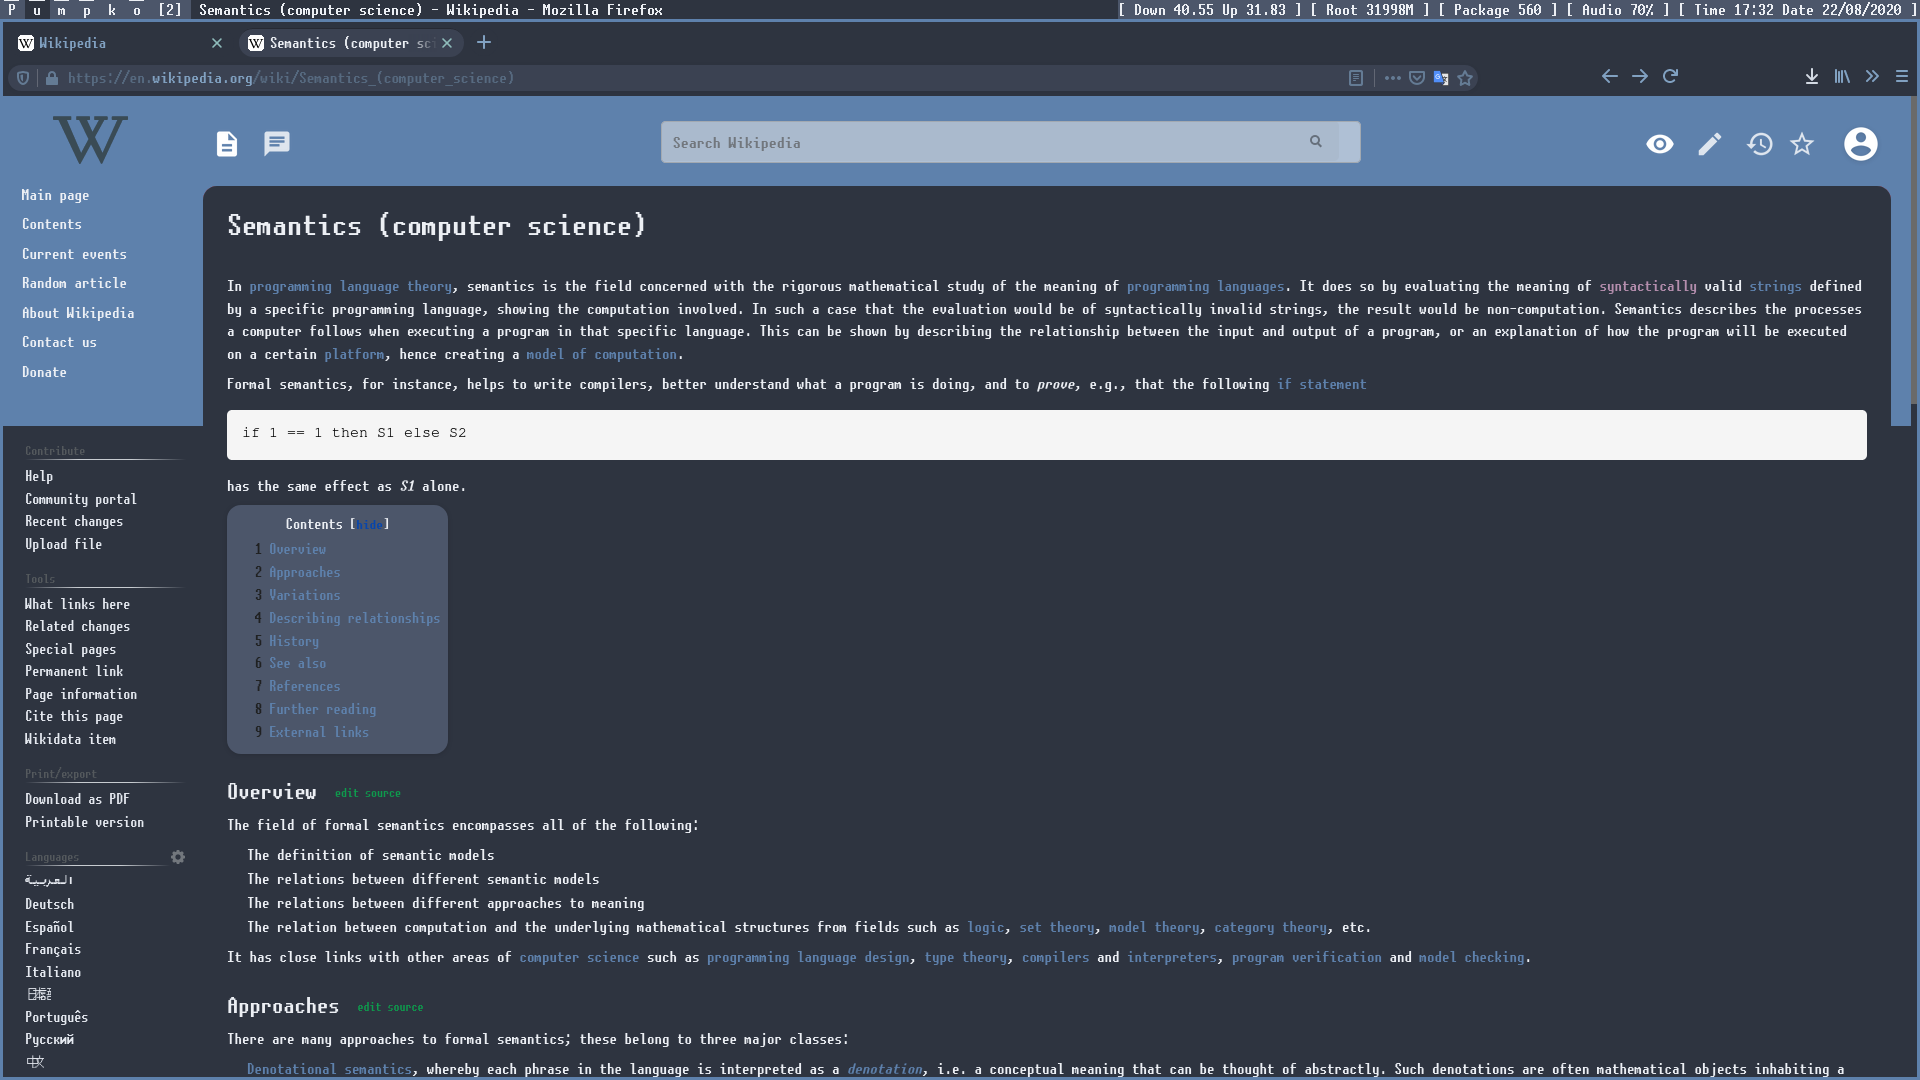
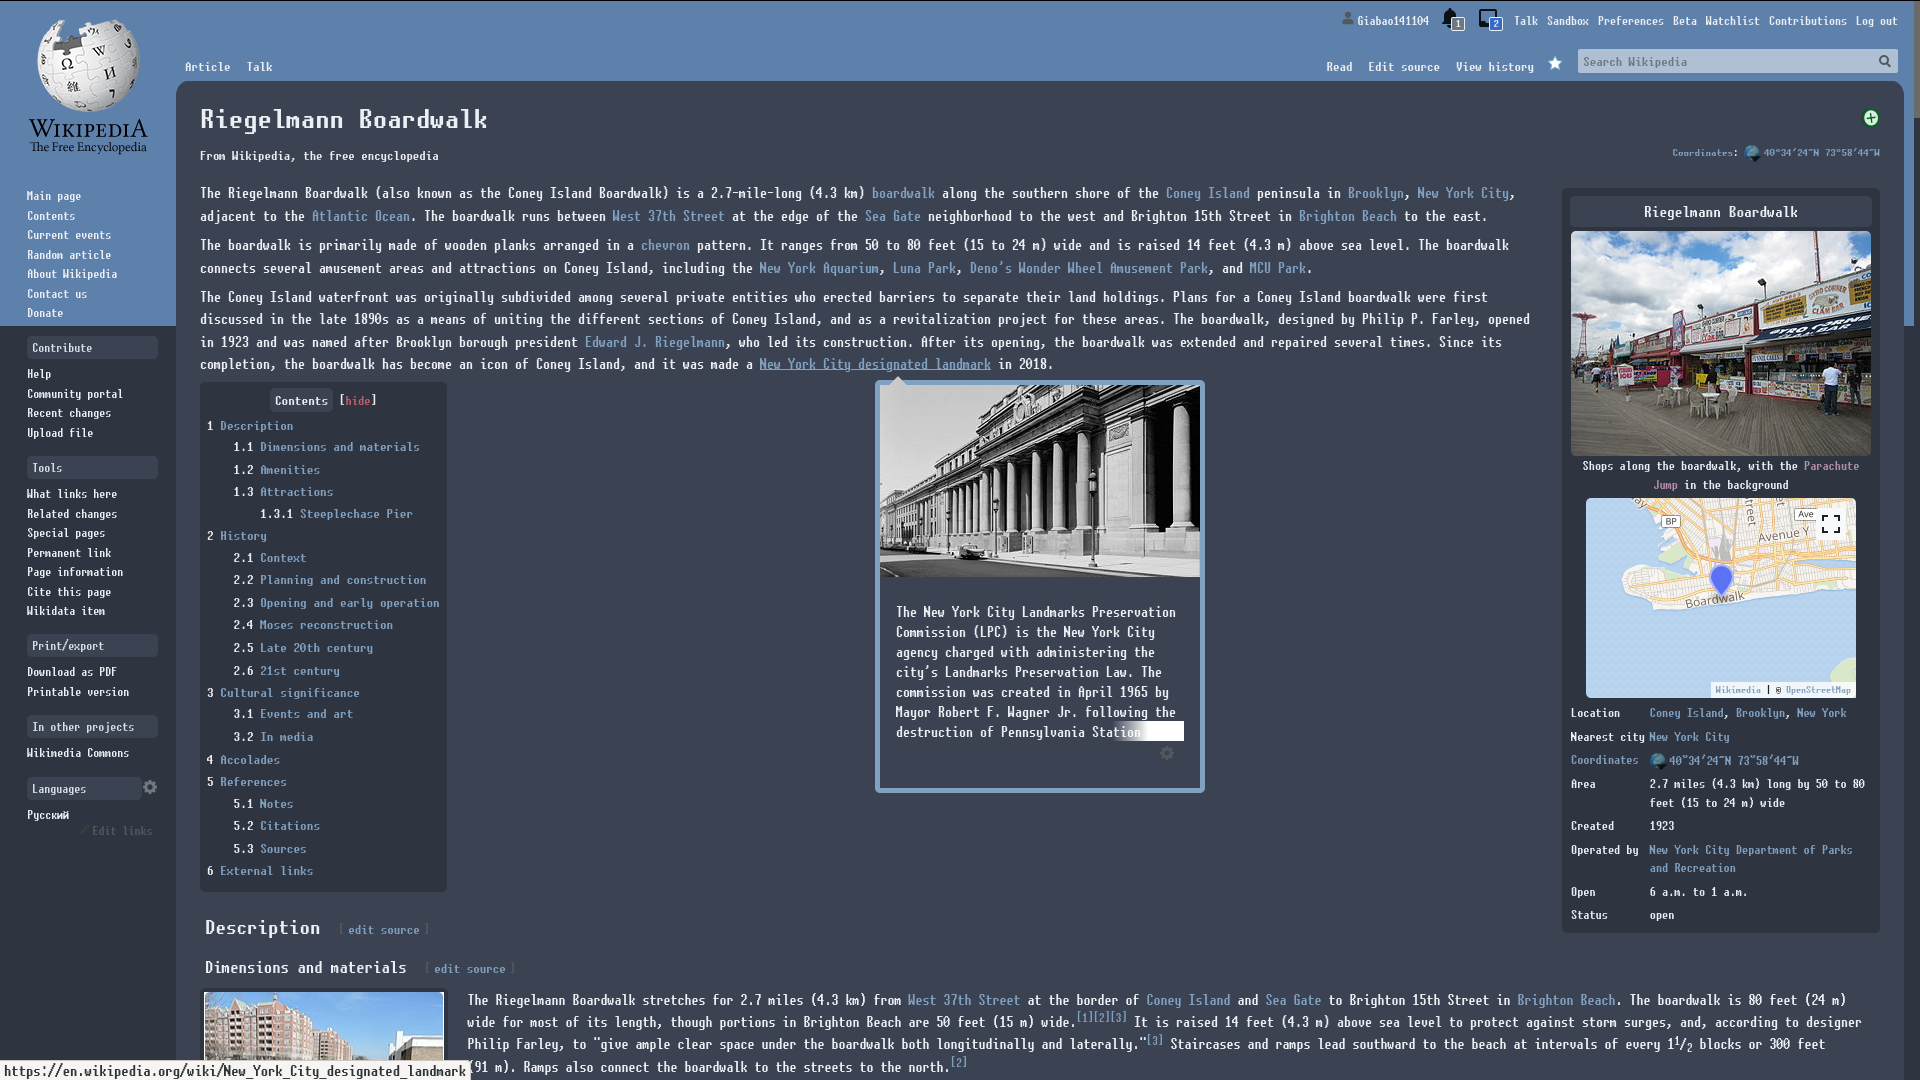
Wikipedia css update

diff --git a/firefox/stylus/wikipedia.css b/firefox/stylus/wikipedia.css
@@ -1,0 +1,139 @@
+@-moz-document domain("wikipedia.org") {
+* {
+    border: none !important;
+    box-shadow: none !important;
+}
+
+/* GENERAL */
+html {
+    background: #2e3440 !important;
+}
+body {
+    background: #2e3440 !important;
+}
+
+a {
+    color: #81a1c1 !important;
+}
+a:visited, .selected {
+    color: #b48ead !important;
+    text-decoration: none !important;
+}
+label {
+    color: #bf616a !important;
+}
+
+/* NAVBAR */
+.toc, .thumbinner {
+    border-radius: 5px !important;
+    background: #2e3440 !important;
+}
+#p-navigation {
+    background: #5e81ac !important;
+}
+#p-interaction-label, #p-tb-label, #p-coll-print_export-label, #p-wikibase-otherprojects-label, #p-lang-label {
+    color: #d8dee9 !important;
+    background: #3b4252 !important;
+    background-image: none !important;
+    padding: 5px !important;
+    border-radius: 5px !important;
+}
+
+/* MAIN */
+#mw-head {
+    color: #eceff4 !important;
+    background: #5e81ac !important;
+}
+#mw-head-base {
+    margin-left: 0;
+    background: #5e81ac;
+    box-shadow: 0 140px 0 105px #5e81ac !important;
+}
+
+.mwe-popups {
+    background: #3b4252 !important;
+    border-radius: 5px !important;
+    border: 5px solid #81a1c1 !important;
+}
+.mwe-popups-is-not-tall {
+    border-radius: 5px !important;
+}
+.mw-ui-icon {
+    background: none !important;
+    background-image: none !important;
+}
+    /*Search*/
+#searchInput {
+    color: #eceff4 !important;
+}
+.suggestions-result, .special-query {
+    color: #eceff4 !important;
+    background: #5e81ac !important;
+}
+.suggestions-special {
+    background: #5e81ac !important;
+    border-radius: 0px 0px 5px 5px;
+}
+.suggestions-result:hover {
+    background: #81a1c1 !important;
+}
+.special-query:hover {
+    padding-left: 5px;
+    border-radius: 0px 0px 5px 5px !important;
+}
+.special-label {
+    color: #2e3440 !important;
+}
+
+    /*Header*/
+.vector-menu-content-list a:visited, .vector-menu-content-list a {
+    color: #eceff4 !important;
+    text-decoration: none !important;
+}
+#p-namespaces, #p-views, .vector-menu-tabs a,
+#ca-nstab-main, #ca-talk, #ca-view, #ca-edit, #ca-history, #ca-watch {
+    background: #5e81ac !important;
+    background-image: none !important;
+}
+    /*Article*/
+.mw-body-content, p {
+    color: #eceff4 !important;
+    background: #3b4252 !important;
+}
+.mw-body {
+    color: #eceff4 !important;
+    background: #3b4252 !important;
+    border-radius: 15px !important;
+    overflow: visible !important;
+    margin-right: 10px !important;
+}
+.mw-headline, #mw-toc-heading, .fn {
+    color: #eceff4 !important;
+    background: #3b4252 !important;
+    padding: 5px;
+    border-radius: 5px;    
+}
+.firstHeading, .noprint, .hatnote, .thumbcation, .tocnumber {
+    color: #eceff4 !important;
+    background: none !important;
+    border-radius: 5px !important;
+}
+
+table {
+    background: #2e3440 !important;
+    padding: 5px !important;
+    border-radius: 5px !important;
+}
+th, td {
+    color: #eceff4 !important;
+}
+
+img {
+    border-radius: 5px !important;
+}
+pre, code, .mwe-math-fallback-image-inline {
+    background: #d1cbbf;
+    border-radius: 4px;
+    filter: invert(100%);
+}
+}

diff --git a/README.md b/README.md
@@ -44,9 +44,8 @@ It's not finished yet, I'll work on it when I have time.
 ![userChrome.css](firefox/2020-07-23_01-46-16_R.png)
 ### stylus
 #### Wikipedia
-[udscbt's stylesheets](https://github.com/udscbt-wsx/udscbt-userstyles) for wikipedia with nord theme!
+[udscbt](https://github.com/udscbt-wsx/udscbt-userstyles) inspired stylesheet for wikipedia with nord theme! Stilling working on this
 
-![wikipedia-main](firefox/stylus/wikipedia-main.png)
 ![wikipedia-article](firefox/stylus/wikipedia-article.png)
 
 ## Gimp
